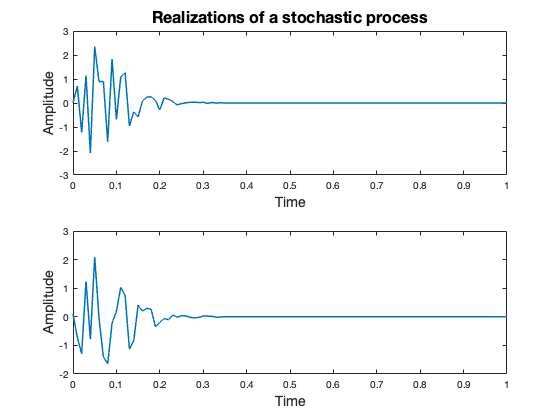
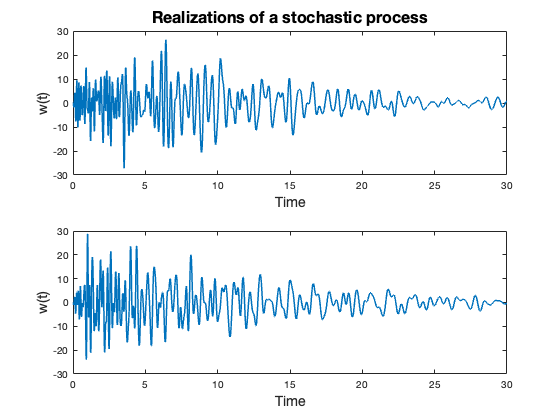
adding new codes

diff --git a/plot_results.m b/plot_results.m
@@ -1,0 +1,148 @@
+clc
+clear
+close all
+
+files = dir('data/');
+epx = 0.20;
+
+%% Equivalent natural frequency
+str1 = 'omegaeq_';
+str2 = sprintf('nonlinearity_%.2f', epx);
+
+for i = 1:1:numel(files)
+    if(contains(files(i).name, str1) && contains(files(i).name, str2))
+        vec = load(strcat('data/', files(i).name));
+        str_split = strsplit(files(i).name,"_");
+        vec(:).q = str2double(str_split(7));
+
+        ndof = size(vec.omega_eq_2);
+        ndof = ndof(1);
+
+        time = vec.time;
+        omega_eq_2 = vec.omega_eq_2;
+    
+        figure(1)
+        for dof = 1:1:ndof
+            subplot(ndof,1,ndof - dof + 1); 
+            hold on
+            plot(time,omega_eq_2(dof,:),'linewidth',2) % MCS
+            xlabel('Time (s)', 'interpreter','latex', 'FontSize', 14)
+            ylabel('$\omega^2_{eq}(t) $ (rad/s)','interpreter','latex', 'FontSize', 14)
+            aux = sprintf('Oscillator equivalent natural frequency. DOF: %d; Nonlinearity: %.2f', dof, epx);
+            title(aux, 'FontSize', 14)
+            grid;
+            legend('q = 0.35', 'q = 0.5', 'q = 0.75')
+        end
+    end
+end
+
+%% Equivalent damping
+str1 = 'betaeq_';
+
+for i = 1:1:numel(files)
+    if(contains(files(i).name, str1) && contains(files(i).name, str2))
+        vec = load(strcat('data/', files(i).name));
+        str_split = strsplit(files(i).name,"_");
+        vec(:).q = str2double(str_split(7));
+
+        ndof = size(vec.beta_eq);
+        ndof = ndof(1);
+
+        time = vec.time;
+        beta_eq = vec.beta_eq;
+    
+        figure(2)
+        for dof = 1:1:ndof
+            subplot(ndof,1,ndof - dof + 1); 
+            hold on
+            plot(time,beta_eq(dof,:),'linewidth',2) % MCS
+            xlabel('Time (s)', 'interpreter','latex', 'FontSize', 14)
+            ylabel('$\beta_{eq}(t) $ (Ns/m)','interpreter','latex', 'FontSize', 14)
+            aux = sprintf('Oscillator equivalent damping. DOF: %d; Nonlinearity: %.2f', dof, epx);
+            title(aux, 'FontSize', 14)
+            grid;
+            legend('q = 0.35', 'q = 0.5', 'q = 0.75')
+        end
+    end
+end
+
+%% Displacement variance
+str1 = 'displacement_';
+
+k = 1;
+for i = 1:1:numel(files)
+    if(contains(files(i).name, str1) && contains(files(i).name, str2))
+        vec = load(strcat('data/', files(i).name));
+        str_split = strsplit(files(i).name,"_");
+        vec(:).q = str2double(str_split(8));
+
+        ndof = size(vec.varx_sl);
+        ndof = ndof(1);
+
+        time = vec.time;
+        varx_sl = vec.varx_sl;
+        c = vec.c;
+        time_out = vec.time_out;
+        varx_mcs = vec.varx_mcs;
+
+        figure(3)
+        for dof=1:1:ndof
+            subplot(ndof,ndof,k); 
+            hold on
+            plot(time, varx_sl(dof,:),'k-','linewidth',2) % SL
+            plot(time, c(dof,:)','r--','linewidth',2) % ODE
+            plot(time_out,varx_mcs(dof,:),'b:','linewidth',2) % MCS
+            legend('SL', 'SA', 'MCS','interpreter','latex')
+            xlabel('Time (s)','interpreter','latex', 'FontSize', 14)
+            ylabel('$Var[x(t)]$ (m)','interpreter','latex', 'FontSize', 14)
+            aux = sprintf('Oscillator displacement variance. DOF: %d; Fractional: %.2f', dof, vec(:).q);
+            title(aux, 'FontSize', 14)
+            grid(1)
+            k = k + 1;
+        end
+    end
+end
+
+%% Plot first-passage PDF
+str1 = 'pdfs_';
+
+for i = 1:1:numel(files)
+    if(contains(files(i).name, str1) && contains(files(i).name, str2))
+        vec = load(strcat('data/', files(i).name));
+        str_split = strsplit(files(i).name,"_");
+        vec(:).q = str2double(str_split(7));
+
+        q = 0.5;
+        if (str2double(str_split(7)) == q)
+            av = vec.av;
+            pa = vec.pa;
+            pr = vec.pr;
+            time_out = vec.time_out;
+    
+            figure(4)
+            colormap jet
+            subplot(2,1,1)
+            hold on
+            surf(time_out,av,pr(:,:,2));
+            clim([0,20])
+            shading interp
+            xlabel('Time (s)','interpreter','latex', 'FontSize', 14)
+            ylabel('Amplitude (m)','interpreter','latex', 'FontSize', 14)
+            aux = sprintf('Empirical probability density function. Fractional: %.2f', vec(:).q);
+            title(aux, 'FontSize', 14)
+    
+            subplot(2,1,2)
+            hold on
+            surf(time_out,av,pa(:,:,2));
+            clim([0,20])
+            shading interp
+            xlabel('Time (s)','interpreter','latex', 'FontSize', 14)
+            ylabel('Amplitude (m)','interpreter','latex', 'FontSize', 14)
+            aux = sprintf('Analytical probability density function. Fractional: %.2f', vec(:).q);
+            title(aux, 'FontSize', 14)
+            break
+        end
+    end
+end
+
+%% survival probability

diff --git a/plot_sample_path.m b/plot_sample_path.m
@@ -2,18 +2,20 @@ clc
 clear
 close all
 
-T = 1;
+T = 30;
 freq = 10;
 n_paths = 2;
 time = 0:0.01:T;
-vec = zeros(n_paths, numel(time));
+m=800;
+frequency_max = 50;
+dw = frequency_max/m;
 
-a = -1;
-b = 1;
+W = zeros(numel(time),n_paths);
 
 for path = 1:1:n_paths
-    for dt = 1:1:numel(time)
-        vec(path, dt) = (a + (b-a).*rand)*evolutionary_power_spectrum(freq, dt);
+    for ii=0:m-1
+        eps_fun = evolutionary_power_spectrum(ii*dw,time);
+        W(:,path) = W(:,path) + (((4*dw.*eps_fun).^0.5).*cos((ii*dw).*time - (2*pi)*rand))'; 
     end
 end
 
@@ -21,12 +23,12 @@ subplot(2,1,1);
 hAx=gca;
 hAx.FontName='Times New Roman';
 hAx.FontSize=15;
-plot(time, vec(1,:), 'LineWidth', 1.5)
+plot(time, W(:,1), 'LineWidth', 1.5)
 title('Realizations of a stochastic process', 'FontSize', 16)
 xlabel('Time', 'FontSize', 14)
-ylabel('Amplitude', 'FontSize', 14)
+ylabel('w(t)', 'FontSize', 14)
 
 subplot(2,1,2);
-plot(time, vec(2,:), 'LineWidth', 1.5)
+plot(time, W(:,2), 'LineWidth', 1.5)
 xlabel('Time', 'FontSize', 14)
-ylabel('Amplitude', 'FontSize', 14)
+ylabel('w(t)', 'FontSize', 14)
